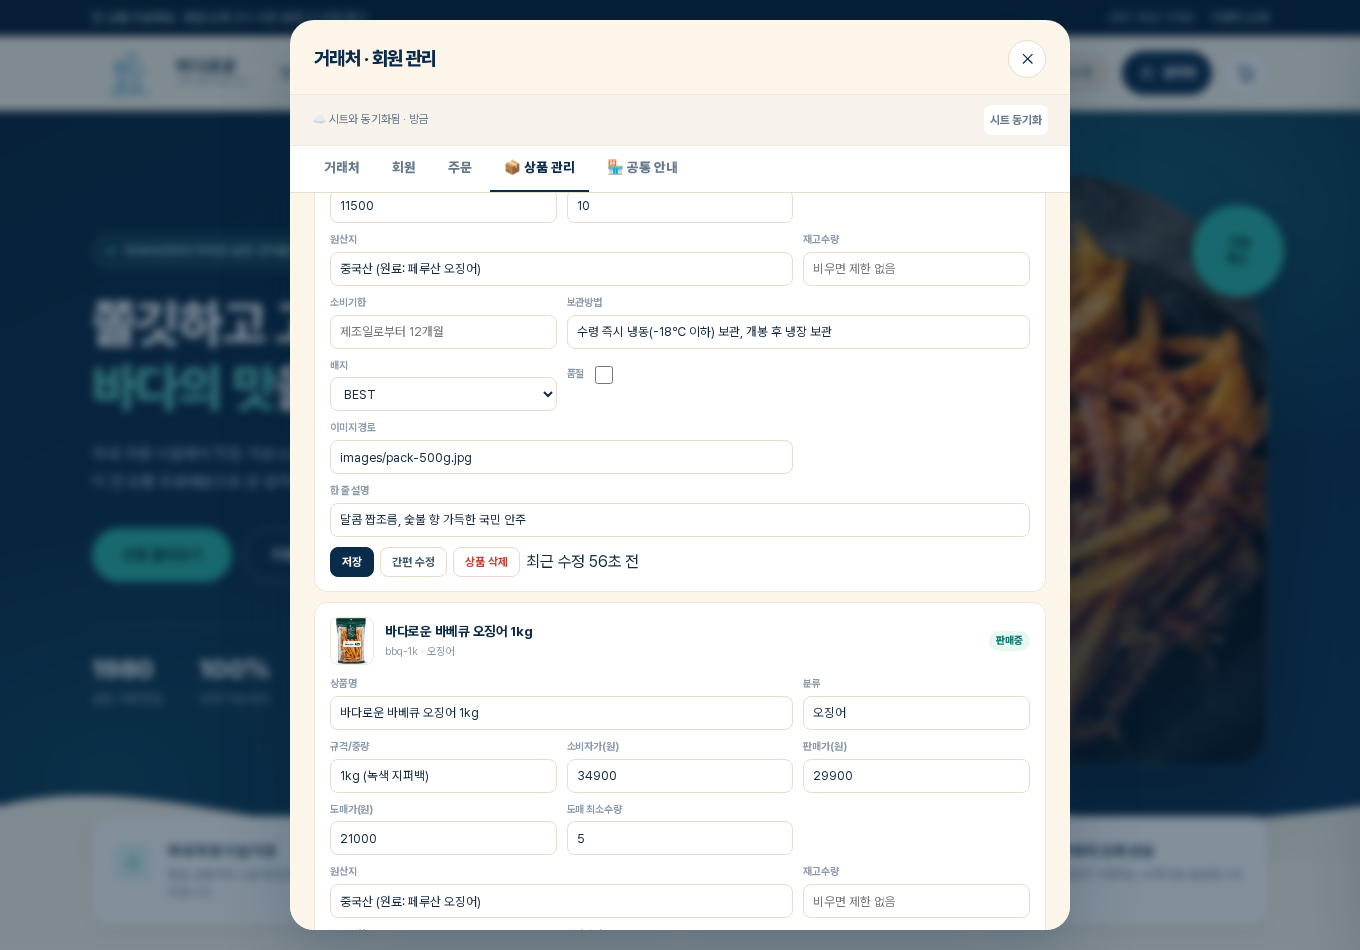
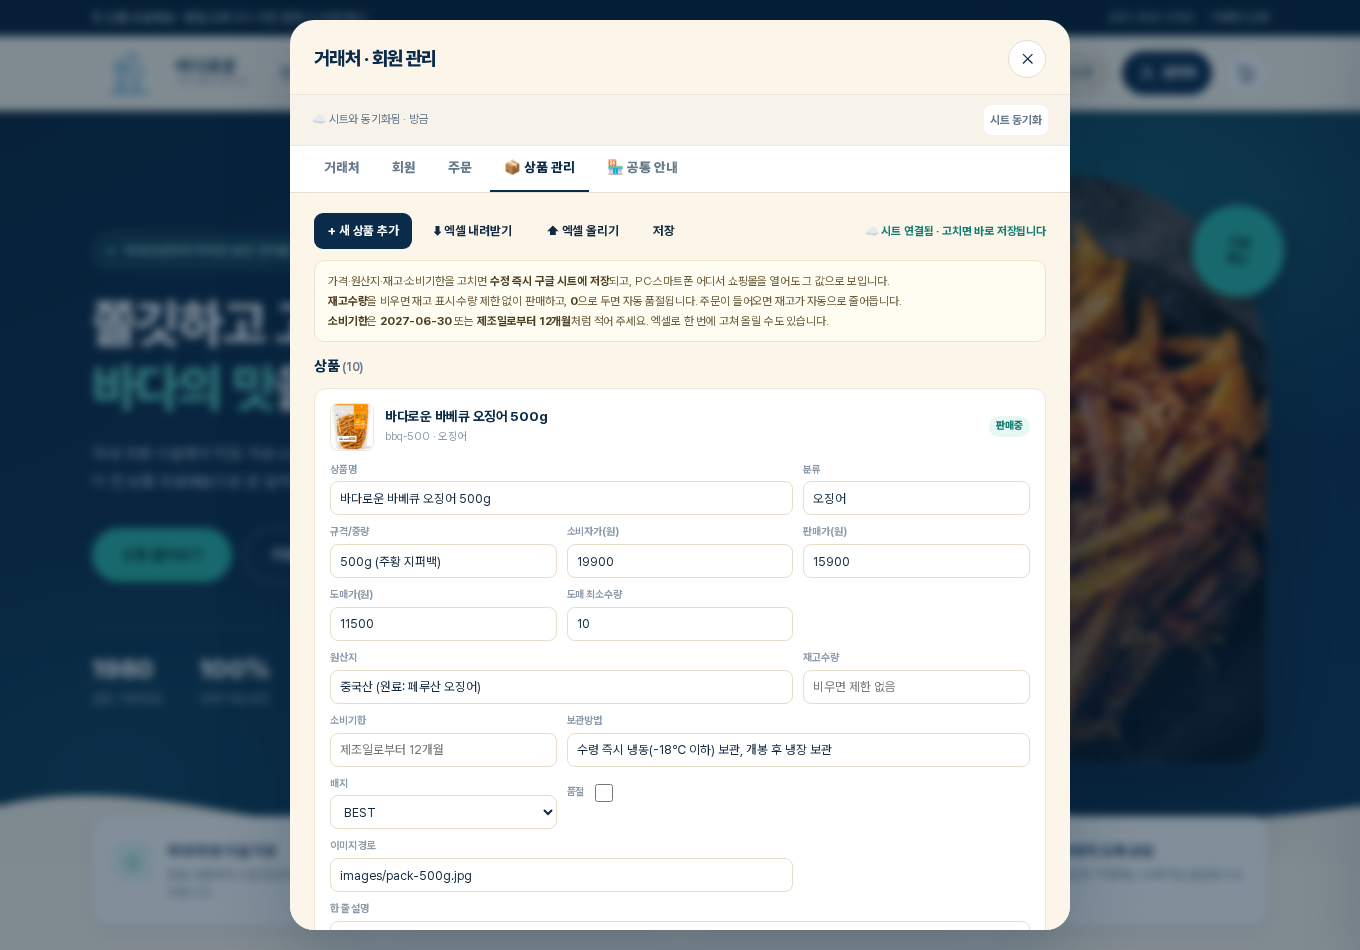
쇼핑몰: 상품 삭제 후 정렬 번호 정리 · 상품 관리/새 상품 화면 스크린샷

diff --git a/shop/index.html b/shop/index.html
@@ -2634,6 +2634,7 @@ footer{background:var(--navy-3);color:#93A9BC;font-size:12.5px;padding:54px 0 40
     if (!p) return;
     if (!window.confirm('「' + p.name + '」 상품을 쇼핑몰에서 삭제할까요?\n삭제하면 모든 기기에서 사라집니다.')) return;
     state.products = state.products.filter(function(x){ return x.id !== id; });
+    state.products.forEach(function(x, i){ x.sortNo = i; });
     state.cart = state.cart.filter(function(c){ return c.id !== id; });
     writeJSON(LS.cart, state.cart);
     if (pendingDeleted.indexOf(id) < 0) pendingDeleted.push(id);

diff --git a/shop/README.md b/shop/README.md
@@ -245,5 +245,11 @@ documents/shop/
 ├── screenshot-detail-coupang-pc.png      쿠팡형 상세(PC)
 ├── screenshot-detail-coupang-mobile.png  쿠팡형 상세(모바일)
 ├── screenshot-shop-admin.png             관리자 거래처·회원 관리
+├── screenshot-shop-product-admin.png     관리자 📦 상품 관리(가격·원산지·재고·소비기한)
 └── screenshot-shop-login-mobile.png      모바일 로그인
+
+scripts/
+├── shop_products_seed.py        products.json → 시트 products/settings 채우기
+├── make_shop_product_xlsx.py    downloads/바다로운_상품관리.xlsx 만들기
+└── test_shop_product_admin.py   관리자 상품 관리 E2E(시트 실제 반영·복구)
 ```
